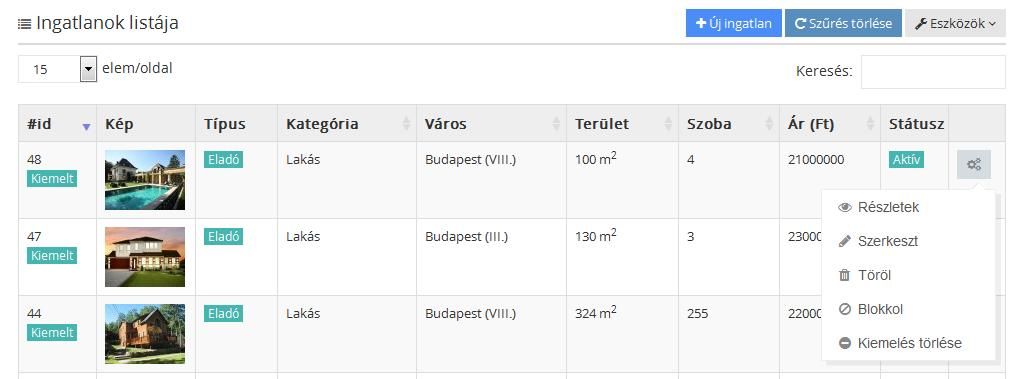
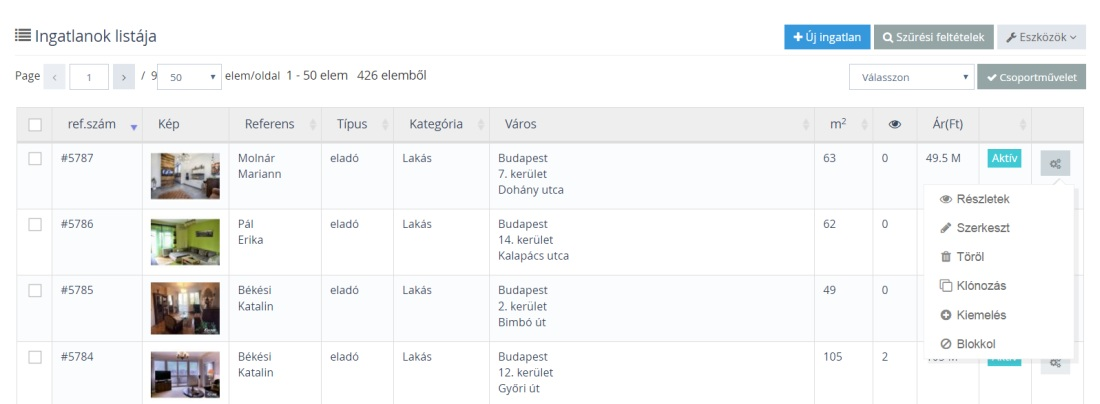
dokumentáció az adminban

diff --git a/public/admin_assets/css/layout.css b/public/admin_assets/css/layout.css
@@ -1472,7 +1472,7 @@ Page content
       margin-left: 235px;
       margin-top: 0px;
       min-height: 600px;
-      padding: 25px 20px 10px 20px; }
+      padding: 25px 20px 50px 20px; }
       .page-content-wrapper .page-content.no-min-height {
         min-height: auto; }
       .page-sidebar-fixed.page-sidebar-hover-on .page-content-wrapper .page-content {

diff --git a/system/Admin/view/user_manual/tpl_user_manual.php b/system/Admin/view/user_manual/tpl_user_manual.php
@@ -36,17 +36,17 @@
                                 <a data-toggle="tab" href="#tab_1-1"><i class="fa fa-cog"></i>A CMS-ről</a> 
                                 <span class="after"></span>                                    
                             </li>
-                            <li ><a data-toggle="tab" href="#tab_2-2"><i class="fa fa-list"></i> Munkák listája</a></li>
-                            <li ><a data-toggle="tab" href="#tab_3-3"><i class="fa fa-edit"></i> Munka felvitele</a></li>  
-                            <li ><a data-toggle="tab" href="#tab_4-4"><i class="fa fa-file-text-o"></i> Munka kategóriák</a></li> 
-                            <li ><a data-toggle="tab" href="#tab_5-5"><i class="fa fa-book"></i> Munkaadók</a></li>   
+                            <li ><a data-toggle="tab" href="#tab_2-2"><i class="fa fa-building"></i> Ingatlanok kezelése</a></li>
+                            <li ><a data-toggle="tab" href="#tab_3-3"><i class="fa fa-edit"></i> Ingatlan felvitele</a></li>  
+                            <li ><a data-toggle="tab" href="#tab_4-4"><i class="fa fa-file-text-o"></i> Kategória és jellemzők listák</a></li> 
+                            <li ><a data-toggle="tab" href="#tab_5-5"><i class="fa fa-book"></i> Dokumentumok feltöltése</a></li>   
                             <li ><a data-toggle="tab" href="#tab_6-6"><i class="fa fa-files-o"></i> Oldalak szerkesztése</a></li>
-                            <li ><a data-toggle="tab" href="#tab_7-7"><i class="fa fa-font"></i> Meta adatok</a></li>
-                            <li ><a data-toggle="tab" href="#tab_8-8"><i class="fa fa-pencil"></i> WYSIWYG szerkesztő</a></li>
+                            <li ><a data-toggle="tab" href="#tab_7-7"><i class="fa fa-font"></i> Érkezési oldalak</a></li>
+                            <li ><a data-toggle="tab" href="#tab_8-8"><i class="fa fa-pencil"></i> Hírek</a></li>
 
                             <li ><a data-toggle="tab" href="#tab_9-9"><i class="fa fa-users"></i> Felhasználók</a></li>
                             <li ><a data-toggle="tab" href="#tab_10-10"><i class="fa fa-picture-o"></i> Képek kezelése</a></li>
-                            
+
                             <li ><a data-toggle="tab" href="#tab_11-11"><i class="fa fa-suitcase"></i> Modulok</a></li>
                             <li ><a data-toggle="tab" href="#tab_12-12"><i class="fa fa-cogs"></i> Beállítások</a></li>
                         </ul>
@@ -54,122 +54,164 @@
 
                     <div class="col-md-9">
                         <div class="tab-content">
-                            
-<!-- ****************************** A CMS RENDSZERRŐL ***************************** -->                                
+
+                            <!-- ****************************** A CMS RENDSZERRŐL ***************************** -->                                
                             <div id="tab_1-1" class="tab-pane active">
-                                <h3>Multijob tartalomkezelő rendszer (CMS)</h3>
+                                <h3>EasyIngatlan tartalomkezelő rendszer</h3>
 
                                 <p>A weblap funkcióinak megfelelően kialakított adminisztrációs felületet lehetőséget biztosít a weblap tartalmának karbantartásához, frissítéséhez. Használatához nem szükséges szakirányú ismeretekkel rendelkezni, bárki könnyen megtanulhatja a rendszer kezelését.</p>
                                 <h4><i class="fa fa-chevron-circle-right"></i> A tartalomkezelőrendszer funkció</h4>
                                 <ul>
-                                    <li>Munkák kezelése</li>
-                                    <li>Munka kategóriák kezelése</li>
-                                    <li>Munkaadók kezelése</li>
-                                    <li>Előregisztráltak (adatlapot kitöltő felhasználók) kezelése</li>
-                                    <li>Regisztráltak / hírlevélre feliratkozottak kezelése</li>
+                                    <li>Ingatlanok feltöltése és kezelése</li>
+                                    <li>Ingatlanokhoz kapcsolódó listák (kategóriák, jellemzők) kezelése</li>
+                                    <li>Ingatlanokhoz kapcsolódó dokumentumok feltöltése</li>
+                                    <li>Hírek kezelése</li>
+                                    <li>Pop-up ablakok kezelése</li>
+                                    <li>Hirdetésekhez használt érkezési oldalak kezelése</li>
                                     <li>Oldalak tartalmának szerkesztése</li>
                                     <li>Felhasználók kezelése (az adminisztrációs rendszer felhasználói)</li>
-                                    <li>Irodák kezelése</li>
+                                    <li>Nyelvi verziókhoz tartozó fordítások kezelése</li>
                                     <li>Modulok
                                         <ul>
-                                            <li>Kezdőoldali slider (képváltó) szerkesztése</li>
+                                            <li>Kezdőoldali slider (képváltó)</li>
+                                            <li>Rólunk mondták</li>
+                                            <li>Partnerek</li>
                                         </ul>
                                     </li>    
                                     <li>Fájlkezelő</li>
                                     <li>Beállítások</li>
                                     <li>Dokumentáció</li>
                                 </ul>
-                             </div>
+                            </div>
 
-<!-- ****************************** NGATLANOK LISTÁJA ***************************** -->                                
+                            <!-- ****************************** NGATLANOK LISTÁJA ***************************** -->                                
                             <div id="tab_2-2" class="tab-pane">
-                                <h3>Munkák listája</h3>
-                                
-<p>Az adminisztrációs rendszerben felvitt munkák listázása lehetővé teszi a munkák áttekintését (a főbb jellemzők alapján), valamint különféle műveletek végrehajtását a munkákkal. A listázáshoz beállítható (listából kiválasztva), hogy egy oldalon mennyi munka jelenjen meg, és a "kereső sor" pedig lehetővé teszi a listában megjelenített elemekben történő keresést.</p>
-<p>A lista fejlécében található háromszögekre kattintva a lista az oszlopok szerint (nem mindegyik alapján) sorba rendezhető. </p>
-                                
-<img src="<?php echo ADMIN_IMAGE; ?>munka_lista.jpg" class="img-thumbnail">                        
+                                <h3>Ingatlanok listája</h3>
 
-<h4><i class="fa fa-chevron-circle-right"></i> Műveletek a munkákkal</h4>
-<p>Az ingatlan lista utolsó oszlopában található fogakkerés ikonra kattintva megjelenik az adott ingatlannal végezhető műveletek listája.</p>
+                                <p>Az adminisztrációs rendszerben felvitt ingatlanok listázása lehetővé teszi az ingatlanok áttekintését (a főbb jellemzők alapján), valamint műveletek végrehajtását az ingatlanokkal. A listázáshoz beállítható (listából kiválasztva), hogy egy oldalon mennyi ingatlan jelenjen meg, és a "keresés" nevű gyorskereső pedig lehetővé teszi a listában megjelenített szöveges elemekben történő keresését.</p>
+                                <p>A lista fejlécében található háromszögekre kattintva a lista az oszlopok szerint (nem mindegyik alapján) sorba rendezhető. </p>
+
+                                <img src="<?php echo ADMIN_IMAGE; ?>ingatlan_lista.jpg" class="img-thumbnail">                        
+
+                                <h4><i class="fa fa-chevron-circle-right"></i> Műveletek az ingatlanokkal</h4>
+                                <p>Az ingatlan lista utolsó oszlopában található fogakkerés ikonra kattintva megjelenik az adott ingatlannal végezhető műveletek listája.</p>
 
                                 <ul>
-                                    <li><strong>Részletek:</strong> a munka valamennyi adata megtekinthető</li>
-                                    <li><strong>Szerkesztés:</strong> a rögzített adatok módosítása</li>
-                                    <li><strong>Törlés:</strong> a művelet véglegesen törli a munkát az adatbázisból</li>
-                                    <li><strong>Blokkolás / aktiválás:</strong> a blokkolt munka inaktív státuszba kerül, ami azt jelenti, hogy nem jelnenik meg a front oldalon, de nem törlődik az adatbázisból. A blokkolt munka újra aktív állapotba állítható.</li>    
-                                    
+                                    <li><strong>Részletek:</strong> az ingatlan valamennyi adata megtekinthető</li>
+                                    <li><strong>Szerkesztés:</strong> a rögzített adatok módosítása, képek és fájlok törlése, újak feltöltése</li>
+                                    <li><strong>Törlés:</strong> a művelet véglegesen törli az ingatlant az adatbázisból, a hozzá tartozó képekkel és fájlokkal együtt</li>
+                                    <li><strong>Klónozás:</strong> egy már az adatbázisban szereplő ingatlan klónozása. Az új ingatlan új azonosító számmal kerül be az adatbázisba, de minden adata megegyezik azon ingatlanéval, amelyikről klónozták.</li> 
+                                    <li><strong>Blokkolás / aktiválás:</strong> a blokkolt ingatlan inaktív státuszba kerül, ami azt jelenti, hogy nem jelneik meg a front oldalon, de nem törlődik az adatbázisból. A blokkolt ingatlan újra aktív állapotba állítható.</li>    
+                                    <li><strong>Kiemelés:</strong> a kiemelt ingatlanok a front oldal kezdőlapján jelennek meg.</li>
                                 </ul>
 
-<h4><i class="fa fa-chevron-circle-right"></i> Szűrés</h4>
+                                <h4><i class="fa fa-chevron-circle-right"></i> Szűrés (összetett keresés)</h4>
 
-                                <p>A szűrés sáv használatával szűkíthető a megjelenített munkák listája, és egyedileg munkára is lehet keresni. A szűrési feltételek a "x" gombra kattintva törölhetők: az űrlap tattalma törlődik, és a szűrés nélküli találati lista töltődik be (az "újratöltés" gombra kattintás ugyanezt eredményezi).</p>
-                                <p>Id-re történő kereséskor csak a számot kell beírni (# nélkül), a munka megnevezésére keresve bármilyen szöveg beírható (a találati listában azok a munkák is szerepelni fognak, amelyekre csak részleges az egyezés). </p>
-                                <p>A szűrési feltételek ÉS kapcsolatban vannak egymással, vagyis azok a munkák fognak a találati listában mszerepelni, amelyek valamennyi szűrési feltételenek megfelelnek.</p>    
-                                
-                                <p>Csoportos műveletek: az első oszlop jelölő négyzeteivel jelölhetők be azok a munkák, amelyekre csoportos műveletet szeretnénk végrehajtani. A munkák kiválasztása után a "csoportművelet" gomb melletti listából ki kell választani az alkalmazandó műveletet.</p>    
-                                
-                            
+                                <p>A "szűrési feltételek" gombra kattintva nyílik le az összetett keresést biztosító kereső űrlap. A bezáráshoz szintén a "szűrési feltételek" gombra kell kattintani. A keresési feltételek a "törlés" gomba kattintva törölhetők.</p>
+                                <p>Az ingatlanok elhelyezkedésére vonatkozó szűréshez először a megyét kell a listából kiválasztani (itt szerepel Budapest is), majd ezt követően jelenik meg a város mezőben a megyében található városok listája. Budapest estében a kerület is kiválasztható. </p>
+                                <p>Keresés indítása után az űrlap "emlékezni fog" az utolsó keresési feltételekre, így a szűrés pontosításakor nem kell minden szűrési feltételt újra kiválasztani / beírni. A tárolt szűrési feltételek a "szűrés törlése" gombra kattintva törölhetők. Technikailag ugyanez történik, ha az adminisztrációs rendszer egy másik oldalát tölti be.</p>    
 
-                             </div> 
+                                <img src="<?php echo ADMIN_IMAGE; ?>ingatlan_szures.jpg" class="img-thumbnail">  
 
-<!-- ****************************** NGATLANOK FELVITELE ***************************** -->                                
+                                <h4><i class="fa fa-chevron-circle-right"></i> Csoportos műveletek</h4>
+                                <p>A lista első oszlopában található checkbox-ra kattintva több ingatlan is kijelölhető, majd ezen ingatlanokon csoportos műveletek hajthatók végre:</p>
+                                <ul>
+                                    <li<strong>Aktiválás / inaktiválás:</strong> Az inaktív ingatlanok nem jelennek meg a front oldalon.</li>
+                                    <li><strong>Kiemelés / kiemelés törlése:</strong> a kiemelt ingatlanok a front oldal egyes részein jelennek meg (pl.: kezdőoldal, jobb oldali sáv)</li>
+                                    <li><strong>Törlés:</strong> ingatlanok törlése</li>
+                                    <li><strong>Referens módosítás:</strong> az ingatlanok más referenshez történő "áthelyezése"</li> 
+                                </ul>
+                            </div> 
+
+                            <!-- ****************************** NGATLANOK FELVITELE ***************************** -->                                
                             <div id="tab_3-3" class="tab-pane">
-                                <h3>Munkák felvitele</h3>
+                                <h3>Ingatlanok felvitele</h3>
 
-                                <p>Új munka hozzáadása a munkák menüben, az új munka hozzáadása almenüben történik. Ugyanez a felület az munkák listája oldalról, az „Új munka” gombra kattintva is elérhető. Az adatfelvitel mentés előtt bármikor megszakítható, a „mégse” gombra kattintás után a „munkák listája” töltődik be.</p>
+                                <p>Új ingatlan hozzáadása az ingatlanok menüben, az ingatlan hozzáadása almenüben történik. Ugyanez a felület az ingatlanok listája oldalról, az „Új ingatlan” gombra kattintva is elérhető.Az ingatlan adatai a jobb áttekinthetőség érdekében több szegmensbe csoportosítva jelennek meg. Az adatfelvitel mentés előtt bármikor megszakítható, a „mégse” gombra kattintás után az „ingatlanok listája” töltődik be.</p>
                                 <p>A piros csillaggal jelölt mezők kitöltése kötelező. Amennyiben úgy történik a mentés, hogy nincs minden kötelező mező kitöltve, hibaüzenet figyelmeztet a nem kitöltött mezőkre.</p>
-                                                                  
-<img src="<?php echo ADMIN_IMAGE; ?>uj_munka.jpg" class="img-thumbnail">                             
-                                
-                                <h4><i class="fa fa-chevron-circle-right"></i> Adatok</h4>                                   
-<p>A referens mezőbe automatikusan a bejelentkezett felhasználó neve kerül. A szuperadminisztrátor más referenst (felhasználót) is választhat, így más nevében vihet fel munkát. Az admin jogosultságú felhasználó csak a saját nevében rögzíthet munkát.</p>
-                              <p>A megnevezés mező a munka rövid elnevezésére szolgál (kötelező kitölteni), a leírásba a részletek kerülnek. A munkához kapcsolódó feltételek megadásához külön mező szolgál.</p>
-                              <p>A munka kategóriák listájából a már rögzített kategóriák közül lehet választani (megadása kötelező).</p>
 
-                              <p>A fizetés és munkaidő mezőkbe szöveges módon lehet az adatokat rögzíteni.</p> 
-                              <p>A megye kiválasztása után megjelenik a város kiválasztása lista, Budapestet választva pedig a kerület lista is megjeleneik. A megye és város kiválasztása kötelező.</p>
-                              
-                              <p>A munkát kínáló cég a cégek listájából választható ki, amennyiben a céget előzőleg a munkaadók közé felvettük. Megadása nem kötelező.</p>
-                              <p>A munkához kapcsolódó egyedi feltételek a feltételek mezőben rögzíthetők.</p>
-                              <p>A munka lejáratának dátuma alapbeállításként 14 nap, így ha nem adunk meg lejáratot, akkor ez kerül be az adatbázisba. Lejárat kiválasztásakor maximum két hómnapos lejárat választható ki. </p>
-                              
-                              <p>A státusz kiválasztásával inaktív vagy aktív állapotban menthető el a munka.</p>                                  
-                              
-                             
-                             </div> 
+                                <img src="<?php echo ADMIN_IMAGE; ?>uj_ingatlan_felvitele.jpg" class="img-thumbnail">                                      
 
-<!-- ****************************** KÉPEK FELTÖLTÉSE ***************************** -->                                
+                                <h4><i class="fa fa-chevron-circle-right"></i> Alap adatok</h4>                                   
+                                <p>A referens kód mezőbe automatikusan a bejelentkezett felhasználó kódja kerül, és amennyiben nem szuperadminisztrátor a bejelentkezett felhasználó, akkor ez a mező nem szerkeszthető. A szuperadminisztrátor kiválaszthatja, hogy melyik referenshez kívánja rögzíteni az ingatlant.</p>
+                                <p>A státusz mező azt határozza meg, hogy az ingatlan megjelenjen-e a front oldalon. Az inaktív státuszú (blokkolt) ingatlanok a front oldalon nem jelennek meg, de az admin rendszerben az ingatlanok listájában megtalálhatók.</p>
+                                <p>Az ügylet típusa, vagyis hogy eladó vagy kiadó ingatlanról van szó, kiválasztásakor az eladási ár és a bérleti díj mezők megjelenítése automatikusan változik. Eladó kiválasztásakor az eladási ár mezőbe írható adat, míg a bérleti díj mező inaktív lesz (ebbe a mezőbe ilyenkor nem írható be adat). Kiadó kiválasztásakor ennek az ellenkezője történik: a bérleti díj mező lesz aktív, és az eladási ár mező inaktív.</p>
+
+                                <h4><i class="fa fa-chevron-circle-right"></i> Cím és megjelenítés</h4> 
+                                <p>Az ingatlan elhelyezkedésének megadásához először a megyék listájából kell választani, Budapest is itt található. A megye kiválasztása után töltődik be a kiválasztott megyében található városok listája. A megye listában Budapestet kiválasztva a város mezőben is Budapest fog megjelenni, és aktívvá válik a kerület kiválasztása mező.</p>
+
+                                <p>Az ingatlan földrajzi koordinátáinak meghatározása (a térképes megjelenítéshez) a cím adatok alapján történik, ezért fontos, hogy minden adat pontos legyen. Az utca mezőbe történő beíráskor automatikusan megjelenik a beírt betűkkel kezdődő utcák listája. Ez lista csak egy segédeszköz az utca beírásához, az utcák litája nem naprakész, ezért hibás adatokat is tartalmazhat.</p>
+                                <p>A cím adatok beírása után ellenőrizhető, hogy az ingatlan helyesen jelenik-e meg a térképen. Amennyiben valamilyen adat nem pontosan lett beírva, előfordulhat, hogy a Google Maps szolgáltatása helytelen földrajzi koordinátákat határoz meg.</p>
+                                <p>A front oldalon (ingatlan adatlap) a térképen nem az ingatlan pontos pozíciója jelenik meg, hanem egy néhányszáz méteres kör jelzi az ingatlan pozícióját.</p>
+                                <p>Az utca, házszám és térképes megjelenítéssel beállítható, hogy ezek az adatok megjelenjenek-e a front oldalon az ingatlan adatlapon. </p>
+                                <img src="<?php echo ADMIN_IMAGE; ?>terkep.jpg" class="img-thumbnail">   
+
+                                <h4><i class="fa fa-chevron-circle-right"></i> Jellemzők</h4>                                   
+
+                                <p>A jellemzők alatt az ingatlan különféle jellemzői választhatók ki illetve adhatók meg. </p>
+
+                                <h4><i class="fa fa-chevron-circle-right"></i> Megnevezés / leírás</h4>                                   
+                                <p>A megnevezés az ingatlan rövid egy mondatos megnevezése (ez fog az url-ben is szerepelni), a leírásban pedig hosszabb, akár beágyazott videót is tartalmazó szöveg szerepelhet. Az egységes megjelenés érdekében ide nem érdemes képeket beszúrni, erre a célra a képfeltöltés szolgál. </p>                                
+
+                                <h4><i class="fa fa-chevron-circle-right"></i> A tulajdonos adatai</h4>                                  
+
+                                <p>A tulajdonos adatainak megadása segíti a tulajdonos alapján történő keresést, és azért, hogy egyértelműen a tulajdonosához tudjuk a rögzítendő ingatlant kapcsolani. A tulajdonos adatainak megadása nem kötelező.</p>
+
+                                <h4><i class="fa fa-chevron-circle-right"></i> Képek és dokumentumok feltöltése</h4>                                  
+
+                                <p>Képek feltöltéséhez először el kell menteni az ingatlant (a "mentés és folytatás” gombra kattintással), a kötelezően megadandó adatokkal. A mentés után az ingatlan bekerül az adatbázisba, és már tölthetők fel hozzá képek. </p>
+
+                                <p>A kötelező adatok kitöltése és elmentése után elkezdhetjük a képek feltöltését. Képek egyenként és csoportosan is feltölthetők. A kiválasztott képek a képek hozzáadása dobozban jelennek meg. Amelyiket mégsem akarjuk feltöltei, az egyszerűen eltávolítható a „kuka” ikonra kattintva.</p>
+
+                                <img src="<?php echo ADMIN_IMAGE; ?>kep_feltoltes.jpg" class="img-thumbnail"> 
+
+                                <p>A feltöltés során a rendszer a képeket megfelelő méretekre konvertálja, és feltölti őket a szerverre, a megfelelő mappába. A folyamat végeztével a feltöltött képek megjelennek a feltöltött képek listájában. Innen egyszerűen törölhetők (a „kuka” ikonra kattintva), és az úgynevezett „fogd és húzd” technikával egyszerűen módosítható a sorrend: a mozgatáshoz a kurzort a kép fölé kell vinni, majd az egér bal gombját lenyomva tartva a kép a kívánt pozícióba mozgatható. </p>
+                                <p>Az első kép lesz az úgynevezett kezdőkép, ez jelenik meg az ingatlan listákban (teljes és szűrt listák, kedvencek, hasonló ingatlanok, kiemelt ingatlanok).</p>
+                                <p>A sorrend módosítása és a képek feltöltése automatikusan történik, nem kell külön ezeket a módosításokat elmenteni, de érdemes a munka befejeztével a „mentés és kilépés” gombra kattintani, hogy minden módosítást elmentsen a rendszer.    </p>
+
+
+                                <p>A dokumentumok / fájlok feltöltésére ugyanaz vonatkozik, mint a képekre: először el kell menteni az ingatlant. </p>
+                                <img src="<?php echo ADMIN_IMAGE; ?>doc_feltoltes.jpg" class="img-thumbnail">
+
+
+                                <p>Nem megengedett fájlformátumú fájl feltöltésekor a rendszer figyelmeztető üzenetet jelenít meg. A következő formátumok támogatottak: jpg, txt, pdf, xps, csv, doc, docx, xls, xlsx, ppt, pps, rtf, ods, odt, odp.</p>
+
+                                <h4><i class="fa fa-chevron-circle-right"></i> Felvitel befejezése</h4>                                  
+
+                                <p>Amennyiben minden adatot kitöltüttünk, feltöltöttük a képeket és a dokumentumokat, a „mentés és kilépés” gombra kattintva a rendszer minden módosítást elment. Később, ha módosítani akarjuk az adatokat, vagy képeket, dokumentumokat, az ingatlanok listájában a „szerkesztés” művelettel tehetjük ezt meg.  </p>
+
+
+
+                            </div> 
+
+                            <!-- ****************************** KATEGÓRIÁK / JELLEMZŐK ***************************** -->                                
                             <div id="tab_4-4" class="tab-pane">
-                                <h3>Munka kategóriaák</h3>
-                                
-<p>A munkákhoz kapcsolódó kategóriák a "munka kategóriák" menüpont alatt tekinthetők meg. A lista a munkák kategóriánkénti számát is mutatja. A kategóriák szerkeszthetők, és új kategória is létrehozható.</p>
+                                <h3>Kategóriák / jellemzők listái</h3>
 
-<p>A kategóriákhoz képet lehet feltölteni. A feltöltés során a rendszer a képet a megfelelő méretekre konvertálja (300x200 képpont, valamint egy kisebb méretű bélyegkép), és feltölti őket a szerverre, a megfelelő mappába. A torzízásmentes megjelenítés érdekében ügyelni kell arra, hogy a feltöltésre kiválasztott kép 3:2 képarányú (vagy ahhoz közeli) legyen. A kép mellett még a kategória nevét lehet megadni / módosítani.</p>
+                                <p>Az ingatlanokhoz kapcsolódó kategóriák, jellemzők a "listák szerkesztése" menüpont alatt tekinthetők meg. A listák elemei szerkeszthetők, és új elem is létrehozható. Amennyiben valamelyik lista törlendő eleme használatban van, akkor az illető elem nem törölhető, és erről hibaüzenet tájékoztat. Például a lakás kategória nem törölhető, amennyiben van az adatbázisban olyan ingatlan, amelynek lakás a kategóriája.</p>
 
+                                <img src="<?php echo ADMIN_IMAGE; ?>lista_szerkesztes.jpg" class="img-thumbnail"> 
 
-                             </div>
+                            </div>
 
-<!-- ****************************** KÉPEK FELTÖLTÉSE ***************************** -->                                
+                            <!-- ****************************** DOKUMENTUMOK FELTÖLTÉSE ***************************** -->                                
                             <div id="tab_5-5" class="tab-pane">
-                                <h3>Munkaadók</h3>
+                                <h3>Dokumentumok feltöltése</h3>
+
+                                <p>Általános jellegű dokumentumok (pl.: szerződés minták) feltöltésére és rendszerezésére szolgáló funkció. Az itt feltöltött dokumentumok nem kapcsolódnak konkrét ingatlanhoz, az ingatlan felvitele / szerkesztése oldalakon van lehetőség konkrét ingatlanhoz kapcsolódó dokumentumok feltötésére.</p>
+                                <p>Dokumentum(ok) feltöltéséhez először mentést kell végrehajtani (a "mentés és folytatás” gombra kattintással) a kötelezően megadandó adatokkal. A mentés után a dokumentum feltöltés bekerül az adatbázisba, és már tölthetők fel hozzá dokumentumok. Egyszerre több dokumentum is feltölthető.</p>
                                 
-<p>A munkák rögzítésekor kiválasztható (listából) a munkát kínáló cég. Ezek a cégek a munkaadók menüpontban rögzíthetők. A munka felvitelekor a munkaadó megadása nem kötelező (és a munkaadóra vonatkozó információk nem nem jelenenk meg a front oldalon), de a cégek adatainak felvitele segíti a munkák listájában a cég szerinti hatékony keresést. Emellett hasznos lehet, hogy gyorsan megekereshetők a munkát kínáló cégek fontosabb kontakt adatai. A munkaadók listájában néhány adat mellett a cégek által kínált, a rendszerben rögzített munkák száma is megjelenik.</p>
+                                 <img src="<?php echo ADMIN_IMAGE; ?>dokumentumok.jpg" class="img-thumbnail">
 
-<p>Új munkaadó rögzítéséhez a fontosabb kontakt adatokat (a cég neve, címe, kapcsolattartó, telefonszám, e-mail cím) lehet rögzíteni, valamint megjegyzés is fűzhető a cégekhez. A cég státusza lehet aktív és inaktív, az inaktív cégek nem jelennek meg munka felvitelekor a munkaadók listájában).</p>
-                             </div>
+                                <p>A feltöltött dokumentumhoz megnevezés és leírás tartozik, valamint kategóriába sorolható, hogy egyszerűbb legyen a nyilvántartás és rendszerezés. </p>
+                            </div>
 
-<!-- ****************************** Oldalak szerkesztése ***************************** -->									
+                            <!-- ****************************** Oldalak szerkesztése ***************************** -->									
                             <div id="tab_6-6" class="tab-pane">
 
                                 <h3>Oldalak szerkesztése</h3>
-                                <p>A weblap oldalai tartalmának szerkesztése az Oldalak menüben, az Oldalak listája menüpont alatt érhető el. A listában a szerkesztés gombra kattintva jelenik meg a szerkesztő felület, amelyen az úgynevezett meta adatok (title, description, keywords - részletes információ a <strong>meta adatok</strong> részben) és a tartalom szerkeszthető. Ez utóbbi szerkesztése egy WYSIWYG szerkesztő felületen történik (részletes információ a <strong>WYSIWYG szerkesztő</strong> részben).     
-
-                            </div>
-                            <!-- ****************************** Meta adatok ***************************** -->									
-                            <div id="tab_7-7" class="tab-pane">
-
-                                <h3>Oldalak szerkesztése - meta adatok megadása</h3>
+                                
+                                <p>Az úgynevezett statikus oldalak tartalmának szerkesztése az Oldalak menüben, az Oldalak listája menüpont alatt érhető el. A listában a szerkesztés gombra kattintva jelenik meg a szerkesztő felület, amelyen az úgynevezett meta adatok (title, description, keywords) és a tartalom szerkeszthető. Ez utóbbi szerkesztése egy WYSIWYG szerkesztő felületen történik.
 
                                 <h4><i class="fa fa-chevron-circle-right"></i> Title, description és keywords megadása</h4>
                                 <p>A szerkeszthető oldalak esetében megadhatók a title, description és keywords meta adatok, amelyek a weboldalon közvetlenül nem láthatók, de van funkciójuk. A title a keresőoptimalizálás terén fontos elem, a jól megfogalmazott description növelheti a kattintási arányt a Google találati listájában, a keywords azonban a Google esetében már nem bír jelentőséggel, így ez az elem akár üresen is hagyható. </p>
@@ -187,6 +229,53 @@
                                 <p>A description a weboldal tartalmát írja le a title-nél kicsit hossszabban. Amennyiben a description releváns a weboldal tartalmához, a Google a találati listában a cím alatt az oldal description elemét jeleníti meg leírásként, ellenkező esetben a weboldal szövegéből választ a Google algoritmusa szövegrészleteket. A jó leírás növelheti a kattintási arányt, de keresőoptimalizálási szempontból nincs közvetlen jelentősége.</p>  
                                 <h4><i class="fa fa-chevron-circle-right"></i> Keywords (kulcsszavak)</h4>
                                 <p>A weboldalra jellemző kulcsszavakat lehet a keywords meta elemben elhelyezni. Mivel korábban manipulatív céllal használták, ezért a Google algoritmusa már nem veszi figyelembe.</p> 
+                                
+                                <h3>WYSIWYG szerkesztő</h3>
+                                <p>Az úgynevezett WYSIWYG  (What You See Is What You Get = Amit lát, azt kapja) szövegszerkesztő segítségével, a Word-höz hasonlóan formázhatja meg a szöveget, vagy szúrhat be képeket, YouTube videókat, vagy HTML elemeket. A mentés után a weboldalon máris a módosított tartalom érhető el. A WYSIWYG szerkesztők célkitűzése egy olyan felületet biztosítása a felhasználók számára, amelyen keresztül vizuálisan lehet elkészíteni a formázott szöveget, akár a HTML nyelv ismerete és a forráskód szerkesztése nélkül is. </p>
+                                <p>Nem szükséges tehát a HTML nyelv ismerete a weblap tartalmának módosításához, a szöveges tartalmakat, képeket, beágyazott videókat egyszerűen szerkesztheti. A forráskód nézetben a komolyabb szerkesztési műveletek is elvégezhetők, de ehhez nem árt némi HTML ismerettel rendelkezni. </p>
+                                <img src="<?php echo ADMIN_IMAGE; ?>wysiwyg_editor_1.jpg" class="img-thumbnail">
+
+                                <h4><i class="fa fa-chevron-circle-right"></i> A WYSIWYG szerkesztő előnyei</h4>
+                                <ul>
+                                    <li>Áttekinthető tartalom: a szerkesztő nagyjából helyesen mutatja a tartalmat, ahhoz hasonlóan, ahogy az a weboldalon meg fog jelenni.</li>
+                                    <li>A tartalom szerkesztésekor azonnal látható az eredmény, a WYSIWYG szerkesztő az eredményhez közeli állapotot mutatja a HTML forrás helyett</li>
+                                    <li>A tartalom egyszerű szerkesztése: a megfelelő elemre kattinthatva azt átszerkeszthetjük, míg a forráskód esetén nem kis ügyességet igényel a forráskód vonatkozó részét tévedés nélkül megtalálni és módosítani.</li>                                    
+                                </ul> 
+                                <p>
+                                    <span class="badge badge-danger">FIGYELEM</span>
+                                    <span>A módosítások elmentése után nincs lehetőség visszaállításra, ezért a mentést célszerű körültekintéssel végezni!</span>
+                                </p>
+                                <p>
+                                    <span class="badge badge-info">INFO</span>
+                                    <span>A WYSIWYG szerkesztő nem profi HTML szerkesztő alkalmazás, ezért csak kellő tapasztalattal és HTML ismeretekkel érdemes a forráskódot szerkeszteni!</span>
+                                </p>
+
+                                <h4><i class="fa fa-chevron-circle-right"></i> Mire kell figyelni?</h4>
+                                <ul>
+                                    <li>Formázás alkalmazása: a szerkesztőben elvégzett formázások módosítják a weblap megjelenését, felülírják a weblaphoz készített úgynevezett stíluslap utasításait. Formázás alkalmazásával eltűnhetnek az eredetileg alkalmazott stílusok.</li>
+                                    <li>Lehetőleg ne módosítsa a betűtípust! A módosított betűtípus helyesen (ékezetekkel) csak akkor fog a weblapot meglátogató felhasználó számára megjelenni, ha annak magyar ékezetes készlete telepítve van a felhasználó gépére. A különöző, nem összeillő betűtípusok az egységes dizánt rontják, amatőr hatást keltenek.</li>
+                                    <li>Képek beszúrásakor, módosításakor a kép feltöltése eredeti méretben történik, ezért ügyelni kell arra, hogy ne nagyméretű képeket töltsön le a böngésző, mivel a nagy fájlméret lassítja a weboldal betöltését. </li>                                    
+                                </ul> 
+                                <h4> <i class="fa fa-chevron-circle-right"></i> Képek beszúrása, módosítása</h4>
+                                <p>A weboldal szöveges tartalmába képek szúrhatók be, illezve a meglévő képek helyett más képek helyezhetők el a dokumentumban..</p>
+                                <p>Kép beszúrás folyamata:</p>
+                                <ul>
+                                    <li>A szekesztő ikon sorában kattintson a kép ikonra, vagy kép módosításakor kattintson kétszer a képre.</li>
+                                    <li>A kép tulajdonságai ablakban kattintson a "böngészés a szerveren" gombra.</li>
+                                    <li>A külön ablakban megnyíló fájlkezelőben dupla kattintással válassza aki a kívánt képet, vagy a feltöltés gombra kattintva töltsön fel új képet, majd azt válassza ki (a szerkesztőben feltöltött képek az uploads/images mappába kerülnek).</li> 
+                                    <li>A kép tulajdonságai ablakban megjelenik a kiválasztott kép elérési útvoanala (hivatkozás) valamint az előnézete. Amennyiben megjelennek a szélesség és magasság rubrikákban a kép méretei, törölje ki azokat, mivel a méret megadása tönkre teszi a reszponzív megjelenítést.</li> 
+                                </ul> 
+                                <img src="<?php echo ADMIN_IMAGE; ?>kep_beszuras.jpg" class="img-thumbnail">     
+
+                            </div>
+                            <!-- ****************************** Meta adatok ***************************** -->									
+                            <div id="tab_7-7" class="tab-pane">
+
+                                <h3>Érkezési oldalak</h3>
+                                
+                                <p>Az érkezési oldalak olyan, hirdetésekhez használható céloldalak, amelyekre akkor kerül a látogató, amikor egy hirdetésre (pl.: Adwords) kattint. Az érkezési oldalakra a weblapon belül nem mutat link. Az érkezési oldalak tartalmának szerkesztése az "Érkezési oldalak" menüben, az "Érkezési oldalak listája" menüpont alatt érhető el. A listában a szerkesztés gombra kattintva jelenik meg a szerkesztő felület, amelyen a meta adatok (title, description, keywords) és a tartalom szerkeszthető. Ez utóbbi szerkesztése egy WYSIWYG szerkesztő felületen történik. Az érkezési oldalak szerkesztése ugyanolyan módon történik, mint a statikus oldalaké.</p>
+
+                              
                             </div>                                
 
                             <!-- ****************************** WYSIWYG szerkesztő ***************************** -->									
@@ -264,10 +353,10 @@
                                 <p>A képfeltöltésnél a "kiválasztás" gombra kattintva lehet feltöltésre képet kiválasztani. Kiválasztás után megjelenik egy "módosít" és egy "töröl" elnevezésű gomb. A módosít gombra kattintva választható ki másik kép, a töröl gombbal pedig „resetelhető”  a kiválasztás. A kép feltöltése (és méretezése) ténylegesen a hozzá kapcsolódó űrlap elmentésekor történik meg.</p>
                                 <p>A felhasználókhoz, valamint az egyes modulokban feltöltött képeket a rendszer a megfelelő méretben tölti fel a szerverre (általában egy kisebb és egy nagyobb méretben), és az UPLOADS mappa megfelelő almappáiba kerülnek.   
                                 <p>
-                                
-                                <span class="badge badge-danger">FIGYELEM</span>
-                                <span>A feltöltött képek fájlnevét ne módosítsa, mivel  a képek elérését a rendszer adatbázosban tárolja, így azok a képek, amelyeknek a nevét módosítja, elérhetetlenné válnak! Ne módosítsa a képek méretét sem!</span>
-                                
+
+                                    <span class="badge badge-danger">FIGYELEM</span>
+                                    <span>A feltöltött képek fájlnevét ne módosítsa, mivel  a képek elérését a rendszer adatbázosban tárolja, így azok a képek, amelyeknek a nevét módosítja, elérhetetlenné válnak! Ne módosítsa a képek méretét sem!</span>
+
 
                                 <h4><i class="fa fa-chevron-circle-right"></i> Képek kezelése a WYSIWYG szerkesztőben</h4>
 
@@ -282,7 +371,7 @@
                                 <p>Az IMAGES mappába feltöltött képek esetében csak arra kell figyelni, hogy ne változzon meg a kép neve.</p>
                             </div>
 
-      <!-- ****************************** Modulok ***************************** -->
+                            <!-- ****************************** Modulok ***************************** -->
 
                             <div id="tab_11-11" class="tab-pane">
                                 <h3>Modulok kezelése</h3>
@@ -302,11 +391,11 @@
                                 <p> Az inaktív státuszú slide-ok elérhetők az adatbázisban, de nem jelennek meg a slider-ben. Minden slide szerkeszthető, törölhető, és új slide is létrehozható. Szerkesztéskor módosítható minden paraméter: a kép, a cím, a szöveg és a státusz.</p>
                                 <p>A megjelenés sorrendje is módosítható. Módosításhoz mozgassa a kurzort a fölé a slide fölé, amelynek a sorrendjét módosítani kívánja. A slide fölött a kurzor négy irányú nyíl formára vált, ekkor tudja a slide-ot a bal egér gomb lenyomása mellett mozgatni. Mozgassa a slide-ot a kívánt pozícióba, majd engedje el az egér gombját. Az új sorrend elmentése automatikusan megtörténik. </p> 
 
-                                                                                                                                   
+
 
                             </div>
-      
-         <!-- *********************** BEÁLLÍTÁSOK ************************* -->
+
+                            <!-- *********************** BEÁLLÍTÁSOK ************************* -->
                             <div id="tab_12-12" class="tab-pane">
                                 <h3>Beállítások</h3>
 
@@ -315,11 +404,9 @@
                                     <li>Cégnév - a weblap különböző helyein (kapcsolat, footer) megjelenő cégnév</li>
                                     <li>Cím - a weblap különböző helyein (kezdőoldal, kapcsolat, footer) megjelenő cím.</li>
                                     <li>Általános e-mail cím - a weblap különböző helyein (kezdőoldal, kapcsolat, footer) megjelenő e-mail. Erre az e-mail címre érkezik a weboldalról küldött üzenetek egy része.</li>
-                                    <li>Telefon - a weblap különböző helyein (kezdőoldal, kapcsolat, footer) megjelenő központi telefonszám</li>
-                                   
-                                    <li>Diák e-mail cím: a diákok által, a weblapról küldött e-mail üzenetek erre a címre érkeznek</li>
-                                    <li>Céges e-mail cím: a cégek által, a weblapról küldött e-mail üzenetek erre a címre érkeznek</li>
-                                    <li>Facebook link: a Facebook oldal linkje (pl.: https://www.facebook.com/afacebookoldalneve)</li>                                        
+                                    <li>Telefonszám(ok) - a weblap különböző helyein (kezdőoldal, kapcsolat, footer) megjelenő központi telefonszám(ok)</li>
+                                    <li>Közösségi oldalak linkjei (Facebook, Google+, Twitter, Pinterest)</li> 
+                                    <li>Megjelenített elemek száma oldalanként</li>  
                                 </ul>
 
                                 <p>A beállításban tárolt adat módosítása után a weblapon az illető adat minden helyen automatikusan módosulni fog. </p>    

diff --git a/system/Core/Application.php b/system/Core/Application.php
@@ -229,7 +229,7 @@ class Application {
                 $router->match('GET|POST', '/settings', 'settings@index');
 
                 // user manual	
-                //$router->get('/user-manual', 'UserManual@index');
+                $router->get('/user-manual', 'UserManual@index');
 
                 // translations	
                 $router->get('/translations', 'translations@index');
